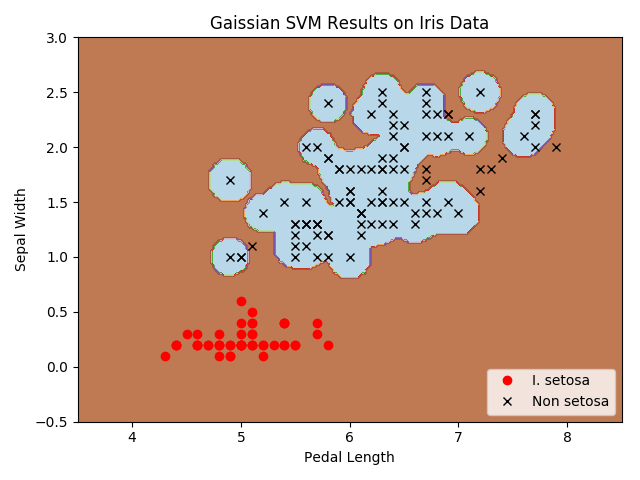
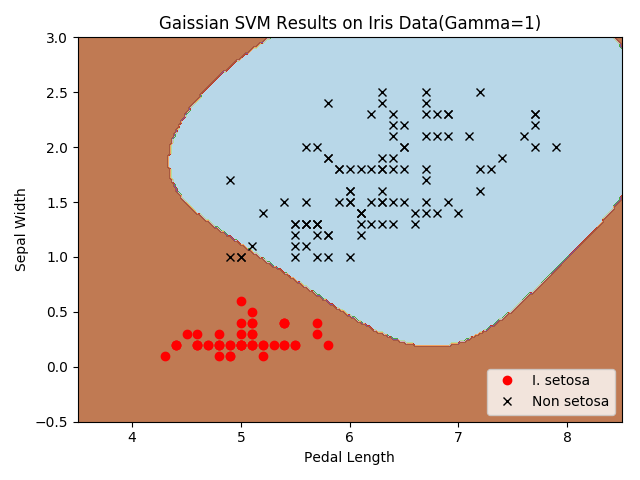
Figure tag Modified

Changed region(s): [[0.25, 0.0312, 0.9688, 0.75]]

diff --git a/Chapter4/README.md b/Chapter4/README.md
@@ -40,17 +40,13 @@ We  apply a non-linear kernel to split the iris dataset. And the kernel is depen
 Here we show the different classification results bu different gamma values.
 
 ![SVMIrisGamma](Image/SVMIrisGamma1.png)  
-
-<center> gamma is 1 </center>  
+ 
 
 ![SVMIrisGamma10](Image/SVMIrisGamma10.png)  
-<center> gamma is 10</center> 
  
 ![SVMIrisGamma25](Image/SVMIrisGamma25.png)
-<center> gamma is 25</center>  
 
 ![SVMIrisGamma100](Image/SVMIrisGamma100.png)
-<center> gamma is 100 </center>  
 
 * Implement a Multi-Class SVM
 
